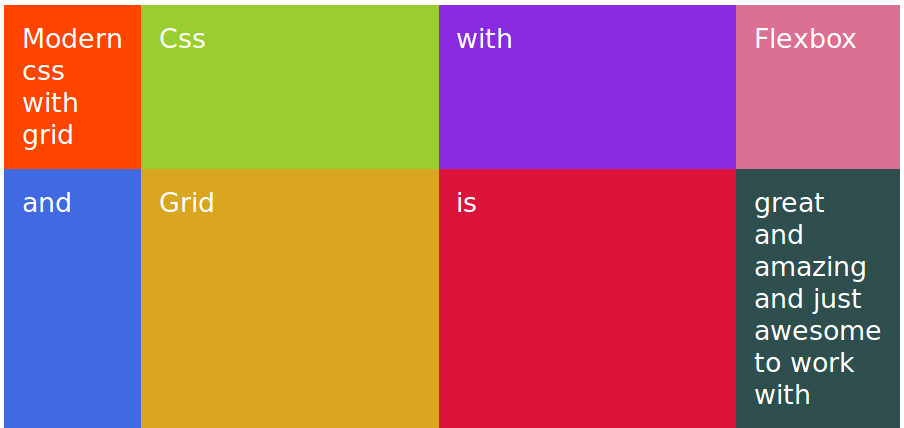
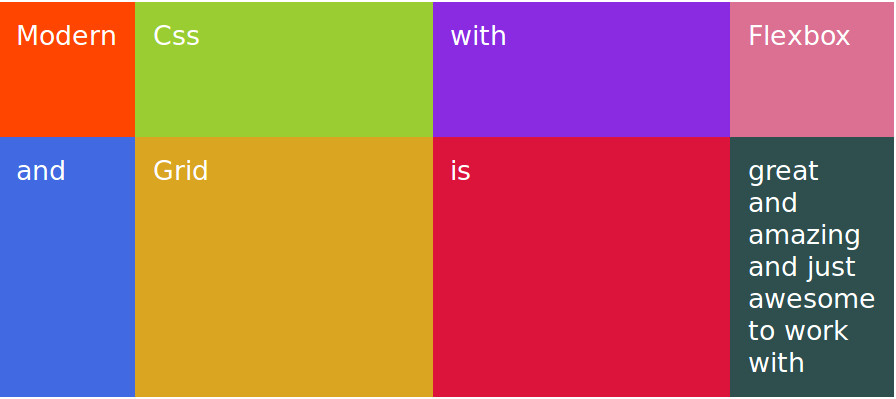
Define first row to be 150px heigh

Changed region(s): [[0.0, 0.0, 1.0, 1.0], [0.8125, 0.0602, 0.9688, 0.1203], [0.5, 0.0602, 0.5625, 0.1203]]

diff --git a/scss/style.scss b/scss/style.scss
@@ -5,8 +5,9 @@
   
   display: grid;
   //grid-template-rows: repeat(2, 150px);
-  grid-template-columns: min-content 1fr 1fr min-content;
+  grid-template-columns: max-content 1fr 1fr min-content;
   grid-template-rows: repeat(2, min-content);
+  grid-template-rows: 150px min-content;
   
   .item {
     padding: 20px;

diff --git a/index.html b/index.html
@@ -8,7 +8,7 @@
   </head>
   <body>
     <div class="container">
-      <div class="item item--1">Modern css with grid</div>
+      <div class="item item--1">Modern</div>
       <div class="item item--2">Css</div>
       <div class="item item--3">with</div>
       <div class="item item--4">Flexbox</div>
